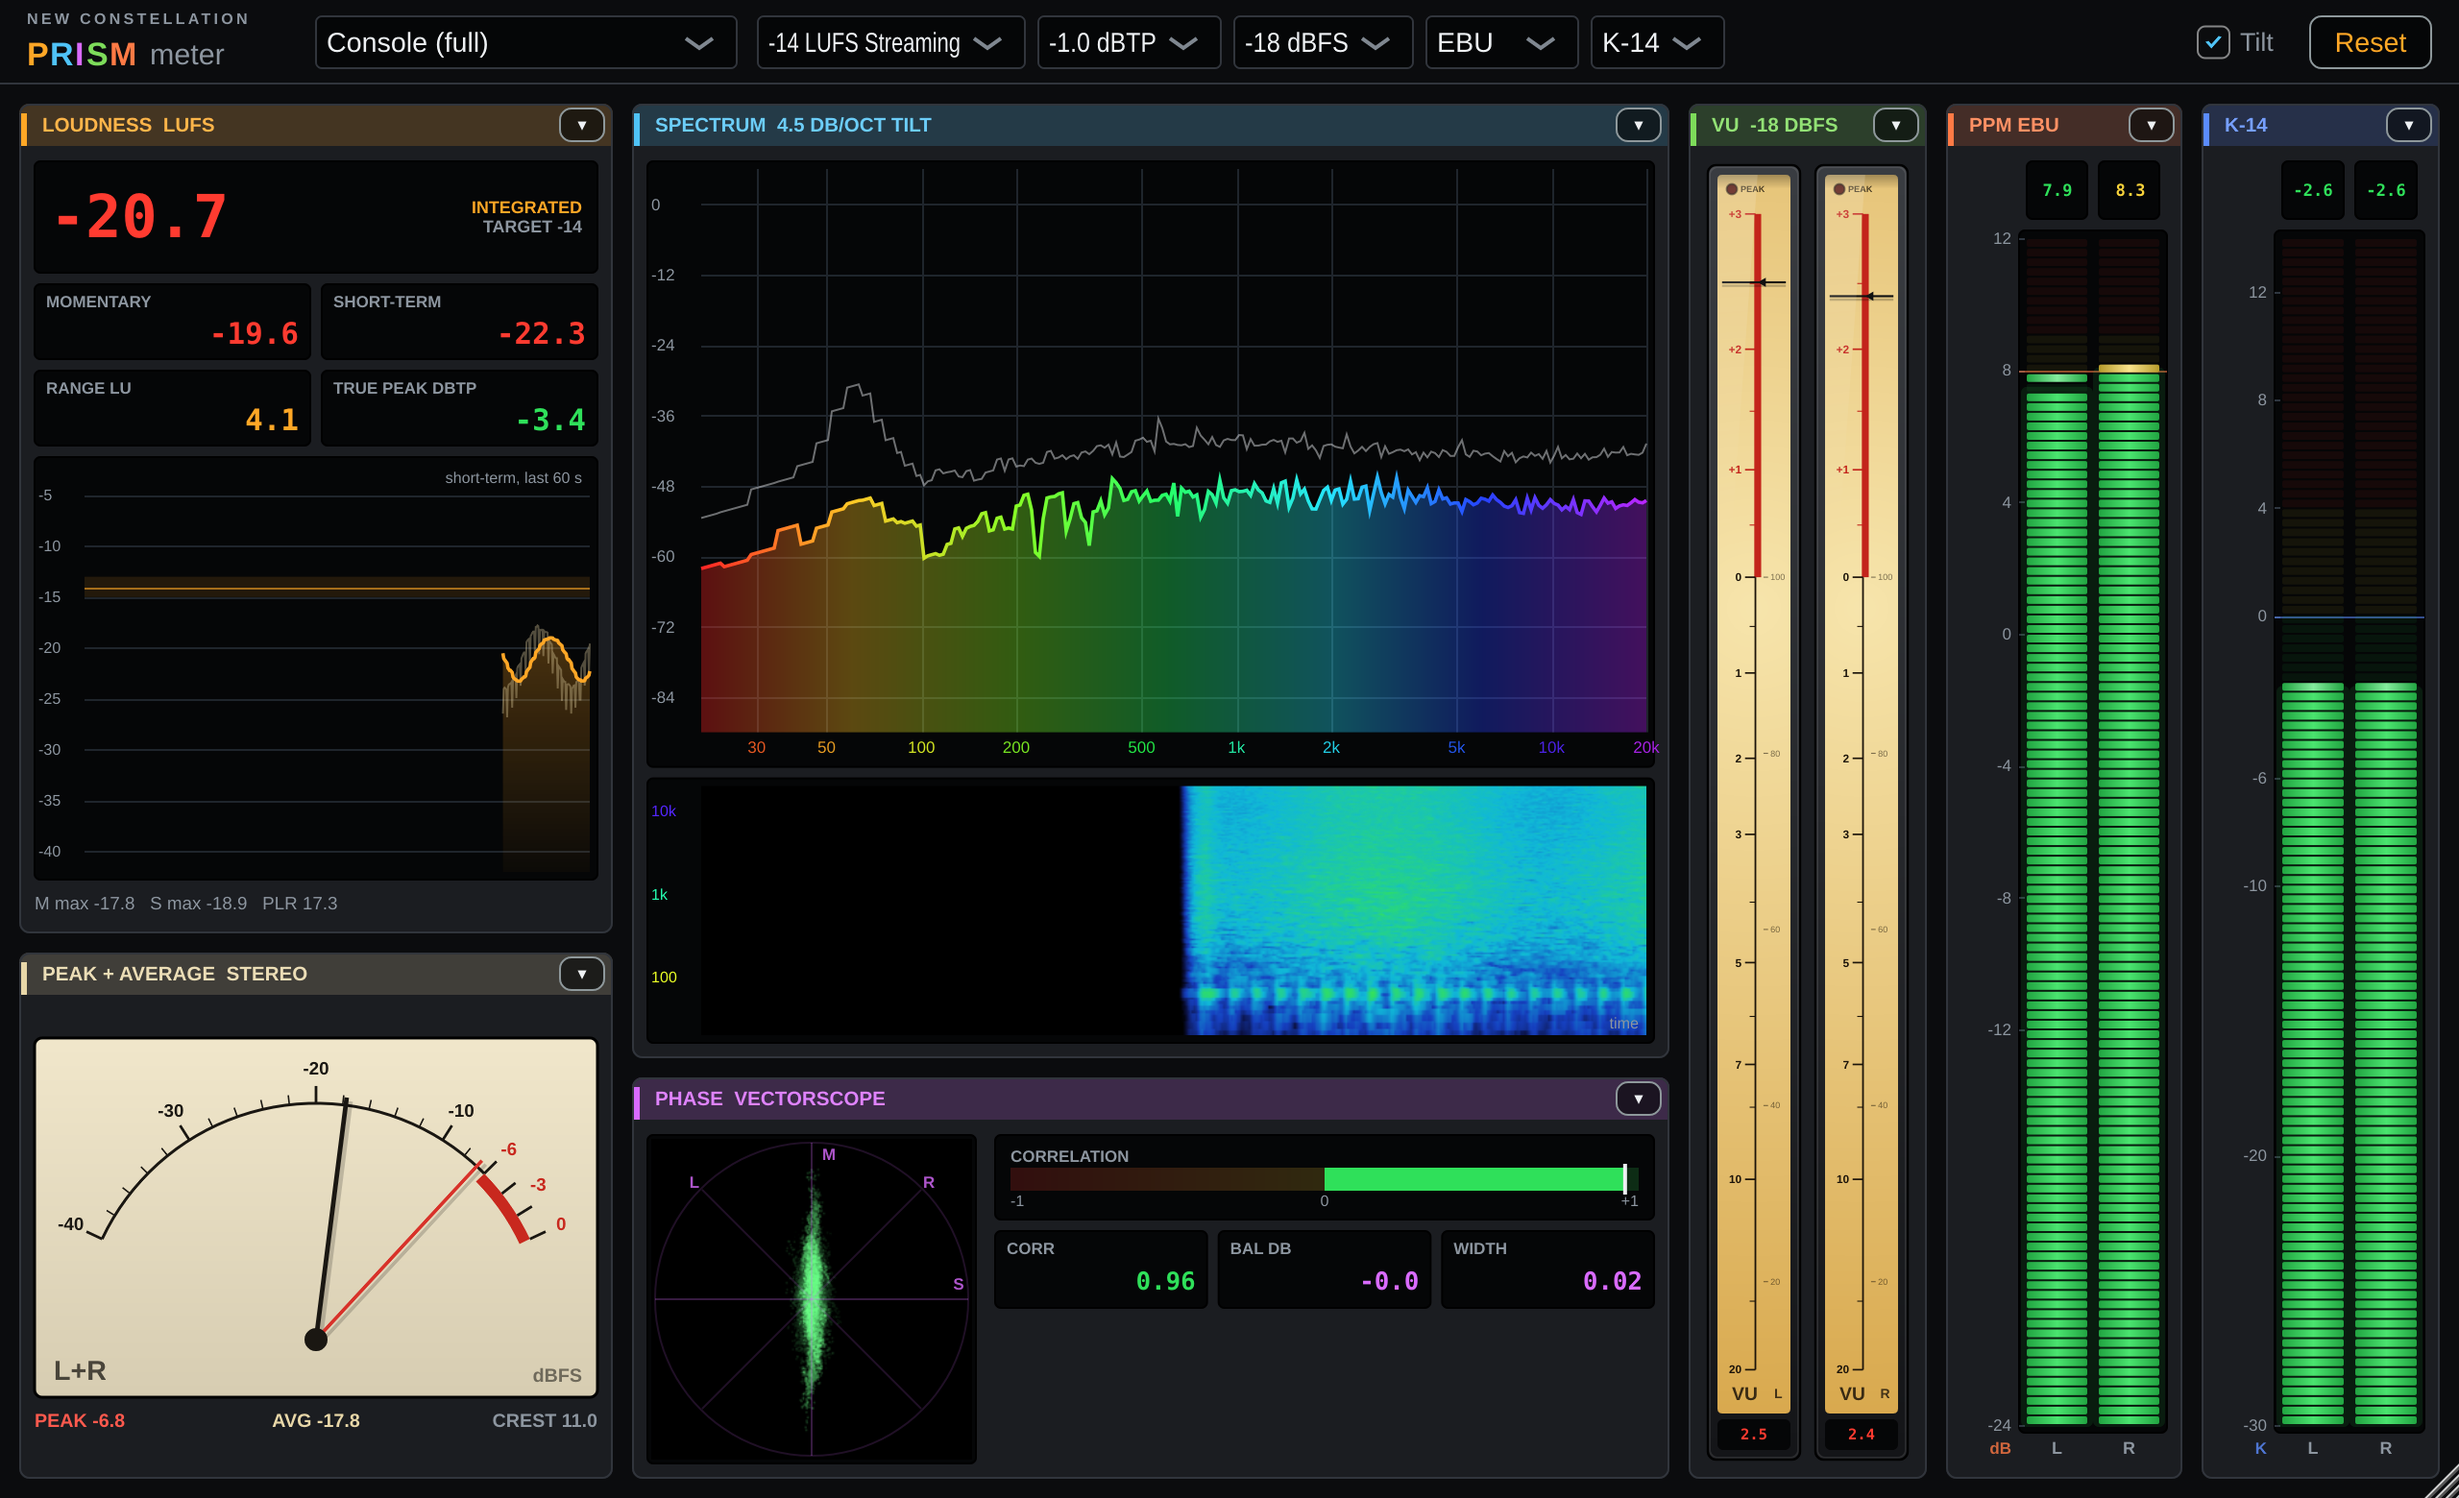
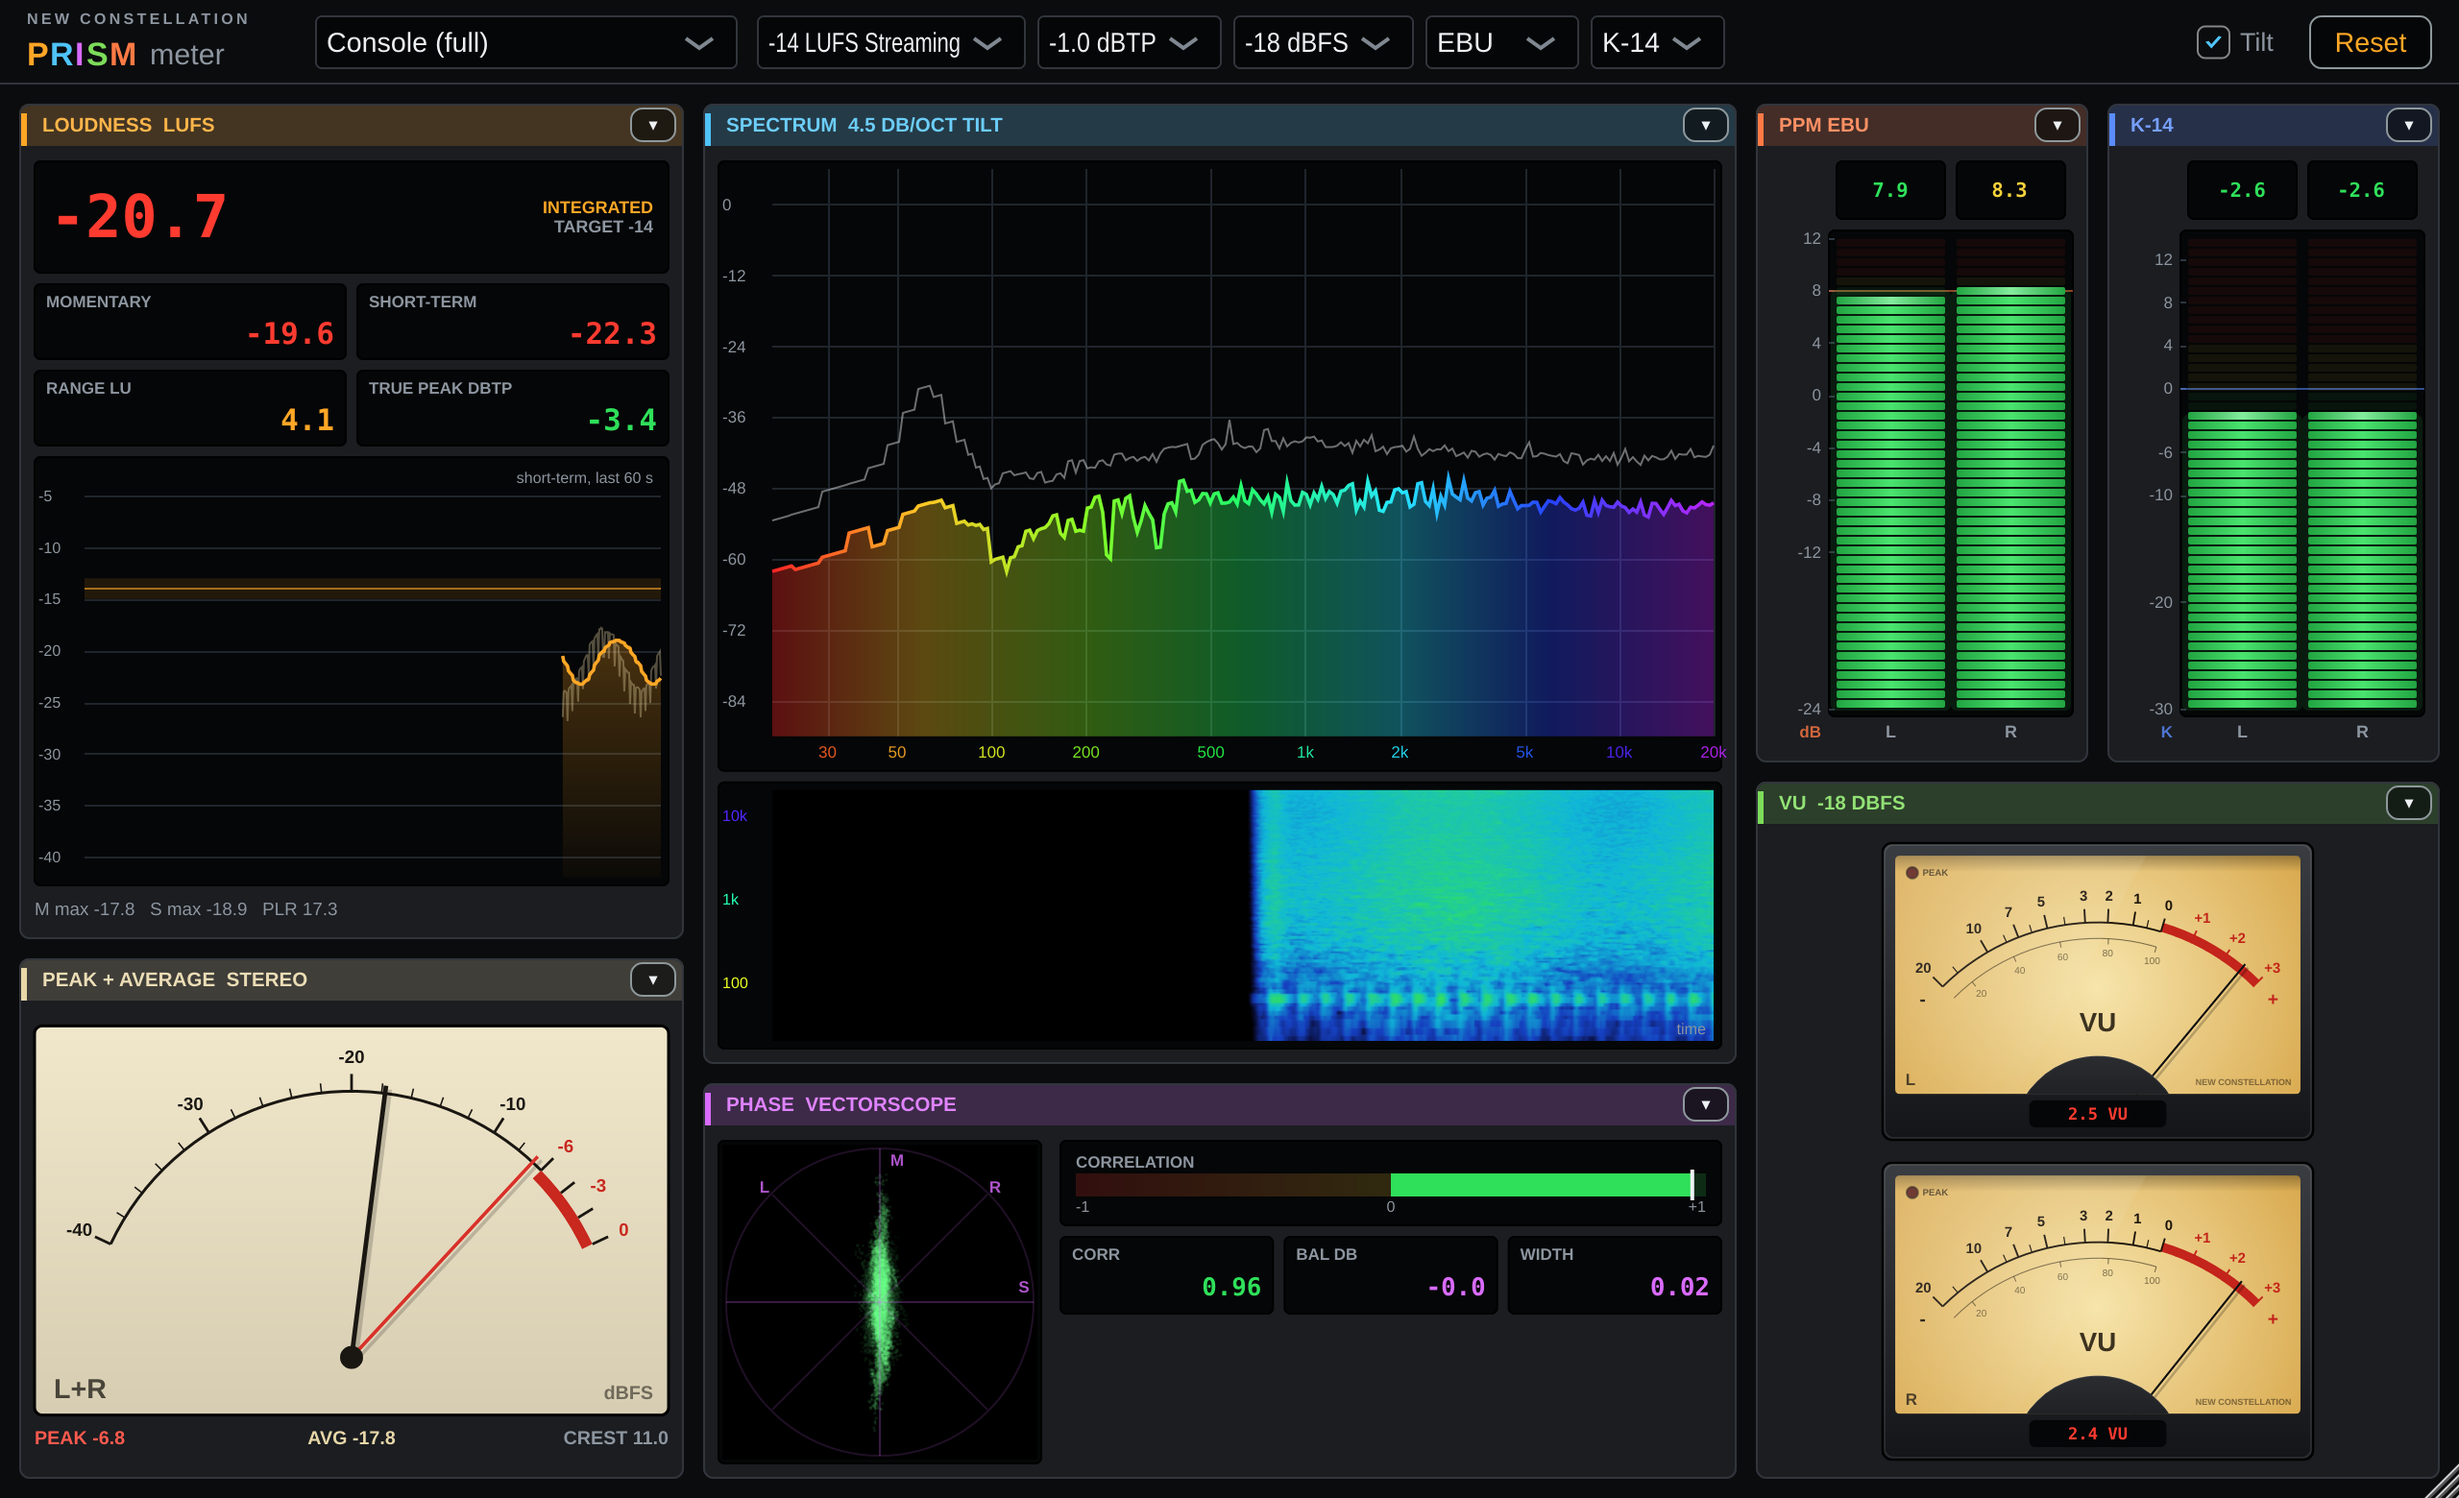
Drop the edgewise VU; give the console's VU room for round dials
The console preset now stacks PPM and K-14 above a wide VU slot so its
VU uses the same round analogue meters as every other preset. The
edgewise form is removed.

Claude-Session: https://claude.ai/code/session_01QegKhQnfAg7fejA2YfehzX

diff --git a/plugin/Source/ui/MeterViews.cpp b/plugin/Source/ui/MeterViews.cpp
@@ -472,16 +472,6 @@ float AnalogVuMeter::needlePosition (float vu) noexcept
     return juce::jlimit (-0.03f, 1.04f, (v - lo) / (hi - lo));
 }
 
-float AnalogVuMeter::meterHeightFor (int width, int height, int channels) noexcept
-{
-    constexpr float aspect = 1.45f, gap = 12.0f;
-    const float w = static_cast<float> (width) - 20.0f;
-    const float h = static_cast<float> (height) - Theme::titleHeight - 20.0f;
-    if (channels < 2)
-        return juce::jmin (h, w / aspect);
-    return juce::jmax (juce::jmin (h, (w - gap) * 0.5f / aspect), juce::jmin ((h - gap) * 0.5f, w / aspect));
-}
-
 void AnalogVuMeter::setTitle (juce::String newTitle)
 {
     if (newTitle != title)
@@ -513,21 +503,6 @@ void AnalogVuMeter::paint (juce::Graphics& g)
 
     constexpr float aspect = 1.45f; // width / height of one meter
     constexpr float gap = 12.0f;
-
-    if (meterHeightFor (getWidth(), getHeight(), numChannels) < 150.0f)
-    {
-        if (numChannels < 2)
-        {
-            drawEdgewise (g, area, 0, {});
-            return;
-        }
-
-        auto left = area.removeFromLeft ((area.getWidth() - 8.0f) * 0.5f);
-        area.removeFromLeft (8.0f);
-        drawEdgewise (g, left, 0, "L");
-        drawEdgewise (g, area, 1, "R");
-        return;
-    }
 
     if (numChannels < 2)
     {
@@ -741,157 +716,6 @@ void AnalogVuMeter::drawMeter (juce::Graphics& g, juce::Rectangle<float> area, i
     g.setFont (Theme::mono (juce::jmax (10.0f, 14.0f * s), true));
     g.setColour (vu > 0.0f ? Theme::levelRed : Theme::vuAccent);
     g.drawText ((vu <= -40.0f ? juce::String ("-inf") : juce::String (vu, 1)) + " VU", readoutStrip, juce::Justification::centred);
-}
-
-void AnalogVuMeter::drawEdgewise (juce::Graphics& g, juce::Rectangle<float> bezel, int channel, const juce::String& label) const
-{
-    const float s = juce::jlimit (0.6f, 1.6f, bezel.getWidth() / 100.0f);
-    const auto ink = juce::Colour (0xff1c140a);
-    const auto red = juce::Colour (0xffc3241b);
-    const auto idx = static_cast<size_t> (channel);
-    const float vu = values[idx];
-
-    // --- Bezel
-    g.setGradientFill (juce::ColourGradient (juce::Colour (0xff3a3d42), bezel.getX(), bezel.getY(),
-                                             juce::Colour (0xff141518), bezel.getRight(), bezel.getBottom(), false));
-    g.fillRoundedRectangle (bezel, 7.0f * s);
-    g.setColour (juce::Colours::white.withAlpha (0.10f));
-    g.drawRoundedRectangle (bezel.reduced (1.0f), 7.0f * s, 1.0f);
-    g.setColour (juce::Colours::black);
-    g.drawRoundedRectangle (bezel, 7.0f * s, 1.2f);
-
-    const float lip = juce::jmax (5.0f, 8.0f * s);
-    auto inner = bezel.reduced (lip);
-    auto readoutStrip = inner.removeFromBottom (juce::jmax (16.0f, 20.0f * s));
-    inner.removeFromBottom (lip * 0.6f);
-    const auto window = inner;
-
-    g.saveState();
-    juce::Path windowPath;
-    windowPath.addRoundedRectangle (window, 4.0f * s);
-    g.reduceClipRegion (windowPath);
-
-    // --- Backlit face, lamp glow centred on the working part of the scale
-    const auto faceWarm = juce::Colour (0xfff7e3a6);
-    const auto faceEdge = juce::Colour (0xffd9a94e);
-    g.setGradientFill (juce::ColourGradient (faceWarm.brighter (0.08f), window.getCentreX(), window.getY() + window.getHeight() * 0.35f,
-                                             faceEdge, window.getX() - window.getWidth() * 0.3f, window.getBottom(), true));
-    g.fillRect (window);
-
-    // Header (PEAK lamp) and footer (VU legend, channel)
-    const float headH = 26.0f * s, footH = 34.0f * s;
-    auto scaleArea = window.withTrimmedTop (headH).withTrimmedBottom (footH);
-    const float top = scaleArea.getY() + 8.0f * s, bottom = scaleArea.getBottom() - 4.0f * s;
-    auto yFor = [&] (float v) { return bottom - needlePosition (v) * (bottom - top); };
-
-    const float lineX = window.getX() + window.getWidth() * 0.52f;
-
-    g.setColour (ink);
-    g.drawLine (lineX, yFor (-20.0f), lineX, yFor (0.0f), 1.5f * s);
-    g.setColour (red);
-    g.fillRect (juce::Rectangle<float> (lineX - 1.0f * s, yFor (3.0f), 6.0f * s, yFor (0.0f) - yFor (3.0f)));
-
-    struct Mark { float vu; bool numbered; };
-    static const Mark marks[] = {
-        { -20.0f, true }, { -15.0f, false }, { -10.0f, true }, { -8.0f, false }, { -7.0f, true }, { -6.0f, false },
-        { -5.0f, true }, { -4.0f, false }, { -3.0f, true }, { -2.0f, true }, { -1.0f, true }, { -0.5f, false },
-        { 0.0f, true }, { 0.5f, false }, { 1.0f, true }, { 1.5f, false }, { 2.0f, true }, { 2.5f, false }, { 3.0f, true }
-    };
-
-    // Skip numbers that would collide on a short scale.
-    const float minLabelGap = 11.0f * s;
-    float lastLabelY = 1.0e9f;
-    g.setFont (Theme::font (11.0f * s, true));
-    for (const auto& m : marks)
-    {
-        const float y = yFor (m.vu);
-        const bool hot = m.vu > 0.0f;
-        g.setColour (hot ? red : ink);
-        const float len = (m.numbered ? 9.0f : 5.0f) * s;
-        g.drawLine (lineX - len, y, lineX, y, (m.numbered ? 1.4f : 0.9f) * s);
-
-        if (m.numbered && (lastLabelY - y >= minLabelGap || juce::exactlyEqual (m.vu, 0.0f)))
-        {
-            lastLabelY = y;
-            const auto text = m.vu > 0.0f ? "+" + juce::String (juce::roundToInt (m.vu))
-                                          : juce::String (juce::roundToInt (std::abs (m.vu)));
-            g.drawText (text, juce::Rectangle<float> (lineX - len - 3.0f * s - 26.0f * s, y - 7.0f * s, 26.0f * s, 14.0f * s),
-                        juce::Justification::centredRight);
-        }
-    }
-
-    // Percent scale on the right of the line (100 % = 0 VU)
-    g.setFont (Theme::font (8.5f * s));
-    g.setColour (ink.withAlpha (0.55f));
-    for (int pct : { 20, 40, 60, 80, 100 })
-    {
-        const float y = yFor (20.0f * std::log10 (static_cast<float> (pct) / 100.0f));
-        g.drawLine (lineX + 7.0f * s, y, lineX + 11.0f * s, y, 0.9f * s);
-        g.drawText (juce::String (pct), juce::Rectangle<float> (lineX + 13.0f * s, y - 6.0f * s, 24.0f * s, 12.0f * s),
-                    juce::Justification::centredLeft);
-    }
-
-    // PEAK lamp
-    const bool lit = lampFrames[idx] > 0;
-    const auto lamp = juce::Rectangle<float> (9.0f * s, 9.0f * s).withPosition (window.getX() + 8.0f * s, window.getY() + 8.0f * s);
-    if (lit)
-    {
-        g.setColour (juce::Colour (0xffff3020).withAlpha (0.35f));
-        g.fillEllipse (lamp.expanded (4.0f * s));
-    }
-    g.setColour (lit ? juce::Colour (0xffff4a30) : juce::Colour (0xff5a1a12));
-    g.fillEllipse (lamp);
-    g.setColour (ink.withAlpha (0.6f));
-    g.drawEllipse (lamp, 1.0f);
-    g.setFont (Theme::font (8.5f * s, true));
-    g.setColour (ink.withAlpha (0.75f));
-    g.drawText ("PEAK", juce::Rectangle<float> (lamp.getRight() + 3.0f * s, lamp.getY() - 2.0f * s, 40.0f * s, lamp.getHeight() + 4.0f * s),
-                juce::Justification::centredLeft);
-
-    // Legend and channel
-    auto foot = window.withTop (window.getBottom() - footH);
-    g.setColour (ink.withAlpha (0.85f));
-    g.setFont (Theme::font (18.0f * s, true));
-    g.drawText ("VU", foot.withTrimmedRight (window.getWidth() * 0.25f), juce::Justification::centred);
-    if (label.isNotEmpty())
-    {
-        g.setFont (Theme::font (13.0f * s, true));
-        g.setColour (ink.withAlpha (0.8f));
-        g.drawText (label, foot.reduced (7.0f * s, 0.0f), juce::Justification::centredRight);
-    }
-
-    // Pointer: a horizontal needle across the face with a soft shadow
-    const float py = yFor (vu);
-    g.setColour (juce::Colours::black.withAlpha (0.22f));
-    g.drawLine (window.getX() + 4.0f * s, py + 3.0f * s, window.getRight() - 4.0f * s, py + 3.0f * s, 2.0f * s);
-    g.setColour (juce::Colour (0xff111111));
-    g.drawLine (window.getX() + 4.0f * s, py, window.getRight() - 4.0f * s, py, 1.8f * s);
-    juce::Path tipShape;
-    tipShape.addTriangle (lineX + 2.0f * s, py, lineX + 9.0f * s, py - 4.0f * s, lineX + 9.0f * s, py + 4.0f * s);
-    g.fillPath (tipShape);
-
-    // Glass
-    g.setGradientFill (juce::ColourGradient (juce::Colours::black.withAlpha (0.30f), window.getX(), window.getY(),
-                                             juce::Colours::transparentBlack, window.getX(), window.getY() + 12.0f * s, false));
-    g.fillRect (window);
-    juce::Path glare;
-    glare.startNewSubPath (window.getX(), window.getY());
-    glare.lineTo (window.getX() + window.getWidth() * 0.55f, window.getY());
-    glare.lineTo (window.getX(), window.getY() + window.getHeight() * 0.45f);
-    glare.closeSubPath();
-    g.setGradientFill (juce::ColourGradient (juce::Colours::white.withAlpha (0.16f), window.getX(), window.getY(),
-                                             juce::Colours::white.withAlpha (0.0f), window.getX() + window.getWidth() * 0.4f,
-                                             window.getY() + window.getHeight() * 0.3f, false));
-    g.fillPath (glare);
-
-    g.restoreState();
-
-    // Numeric reading in the bezel
-    g.setColour (Theme::face);
-    g.fillRoundedRectangle (readoutStrip, 3.0f);
-    g.setFont (Theme::mono (juce::jlimit (9.0f, 14.0f, 12.0f * s), true));
-    g.setColour (vu > 0.0f ? Theme::levelRed : Theme::vuAccent);
-    g.drawText (vu <= -40.0f ? juce::String ("-inf") : juce::String (vu, 1), readoutStrip, juce::Justification::centred);
 }
 
 //==============================================================================

diff --git a/plugin/Source/ui/Layouts.h b/plugin/Source/ui/Layouts.h
@@ -101,11 +101,12 @@ namespace DisplayPresets
         static const std::vector<DisplayPreset> presets {
             { "console", "Console (full)", "Every meter on one screen, for a main studio display.",
               1280, 780,
-              { 1.0f, 1.75f, 0.4f, 0.4f, 0.4f },
-              { 0.62f, 0.08f, 0.30f },
-              { { 0, 0, 1, 1, K::loudness }, { 0, 1, 1, 2, K::peakAverage },
-                { 1, 0, 1, 2, K::spectrum }, { 1, 2, 1, 1, K::phase },
-                { 2, 0, 1, 3, K::vu }, { 3, 0, 1, 3, K::ppm }, { 4, 0, 1, 3, K::kSystem } } },
+              { 1.0f, 1.55f, 0.5f, 0.5f },
+              { 0.50f, 0.12f, 0.08f, 0.30f },
+              { { 0, 0, 1, 2, K::loudness }, { 0, 2, 1, 2, K::peakAverage },
+                { 1, 0, 1, 3, K::spectrum }, { 1, 3, 1, 1, K::phase },
+                { 2, 0, 1, 1, K::ppm }, { 3, 0, 1, 1, K::kSystem },
+                { 2, 1, 2, 3, K::vu } } },
 
             { "wide12-stereo", "12\" widescreen: stereo Peak + Average", "One large stereo dual-needle meter, L and R side by side.",
               1280, 720,

diff --git a/plugin/Source/ui/MeterViews.h b/plugin/Source/ui/MeterViews.h
@@ -116,16 +116,10 @@ public:
     /// -20 VU at 0 and +3 VU at 1), allowed to pin slightly past both ends.
     static float needlePosition (float vu) noexcept;
 
-    /// Height of each round-scale meter face at the given size; below about
-    /// 150 px the component switches to the edgewise form.
-    static float meterHeightFor (int width, int height, int numChannels) noexcept;
 
 private:
     void drawMeter (juce::Graphics&, juce::Rectangle<float> area, int channel, const juce::String& label) const;
 
-    /// Tall edgewise form of the same meter (vertical scale, horizontal
-    /// pointer) for narrow slots such as console columns.
-    void drawEdgewise (juce::Graphics&, juce::Rectangle<float> area, int channel, const juce::String& label) const;
 
     juce::String title { "VU" };
     int numChannels = 2;
